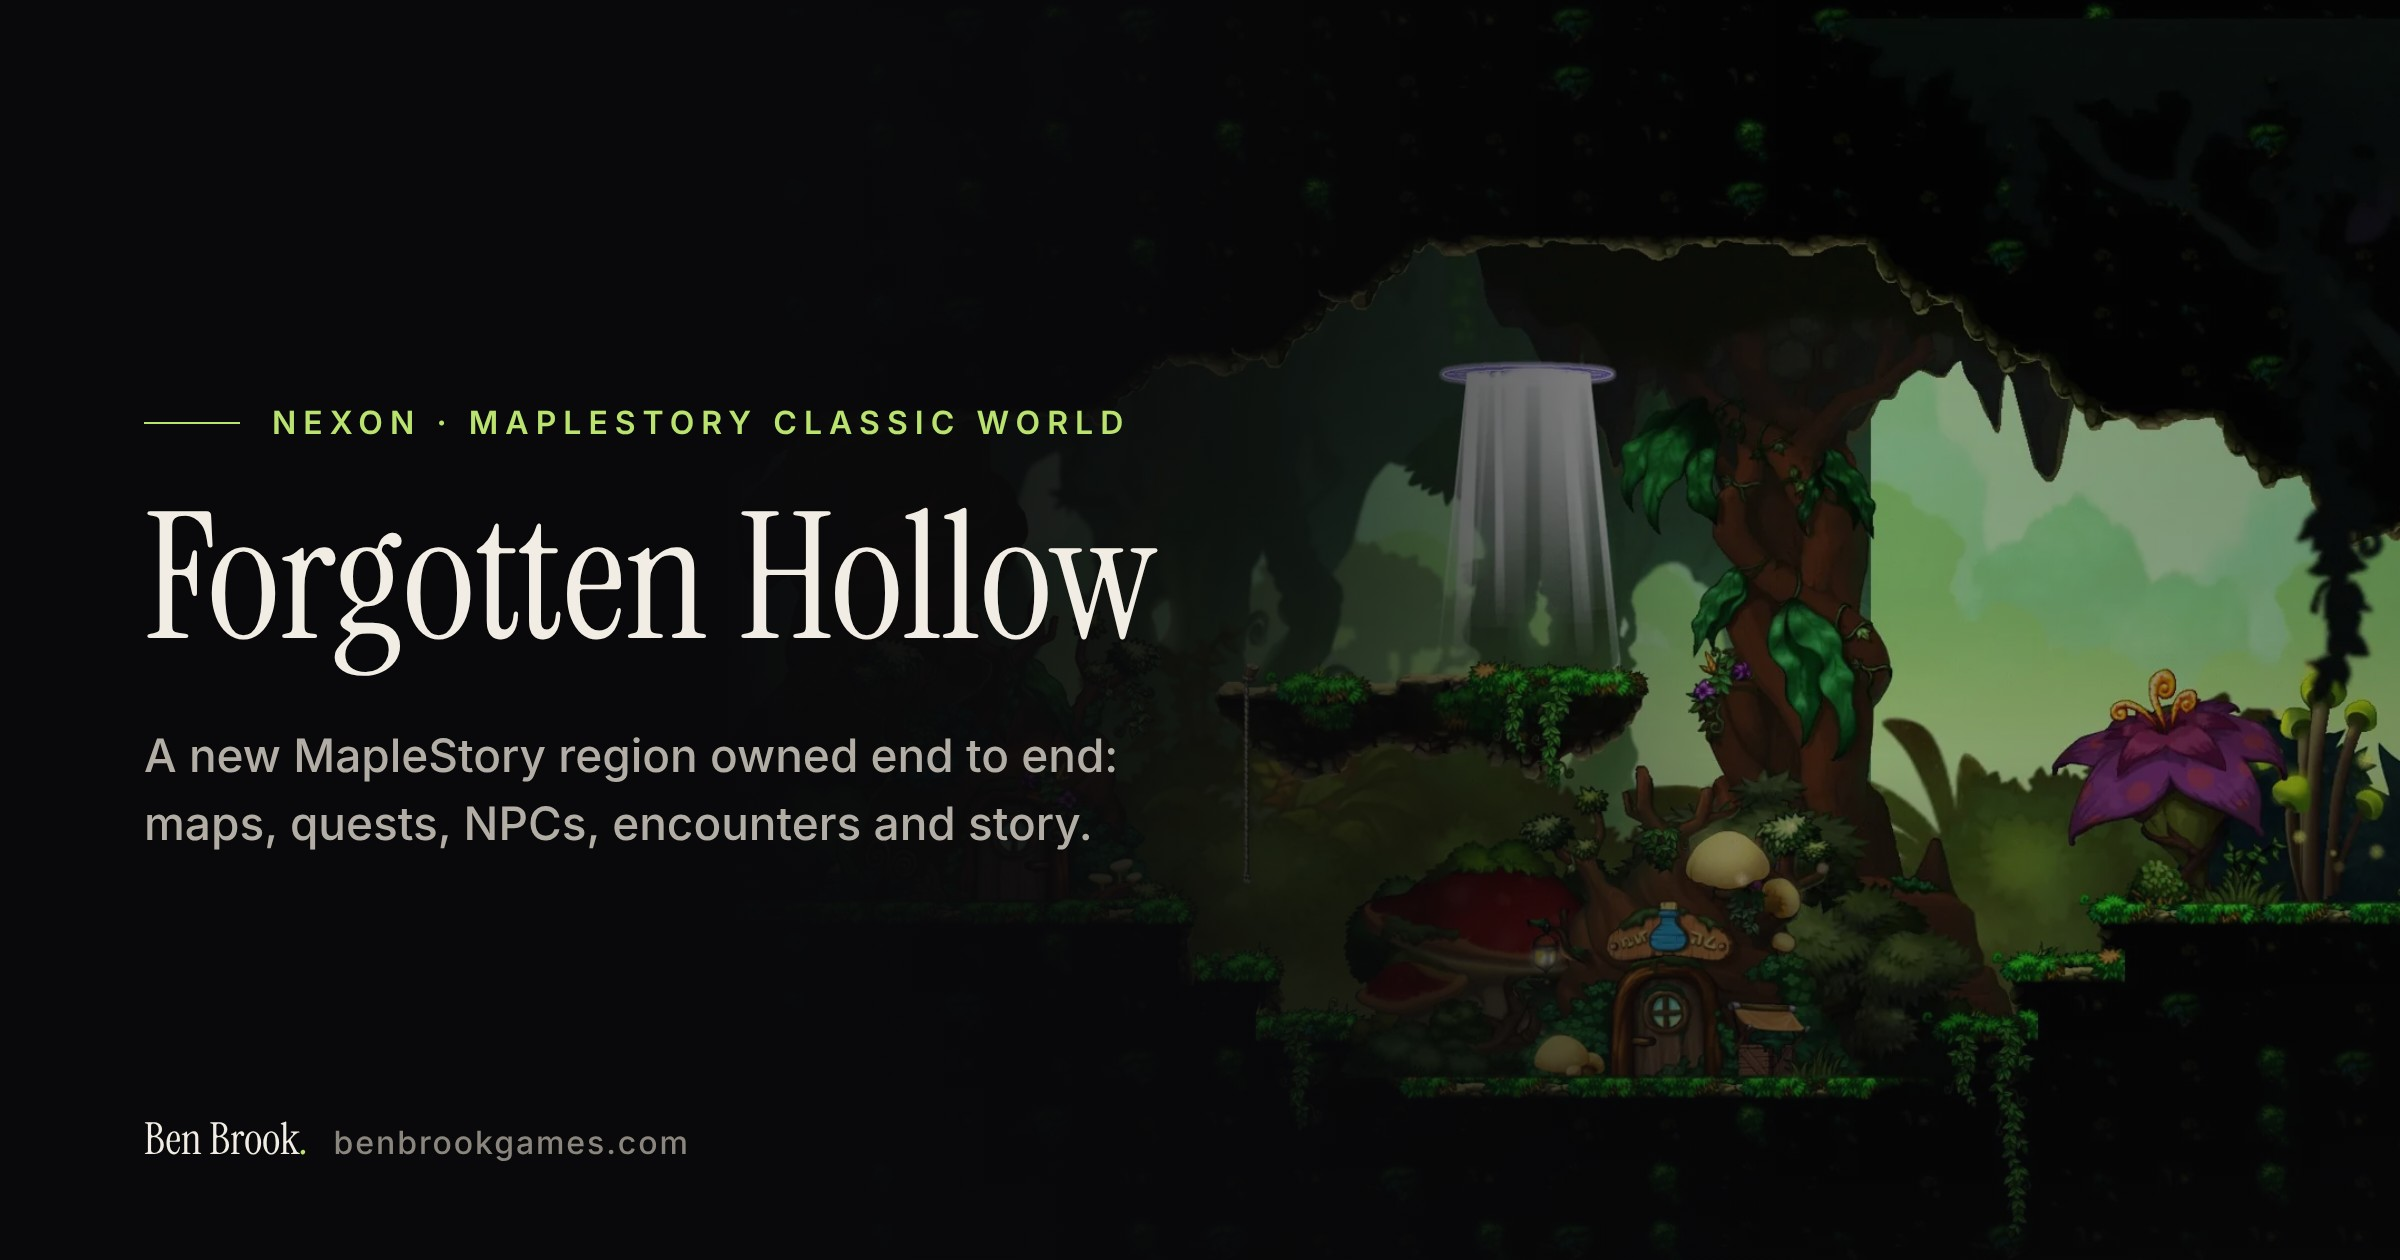
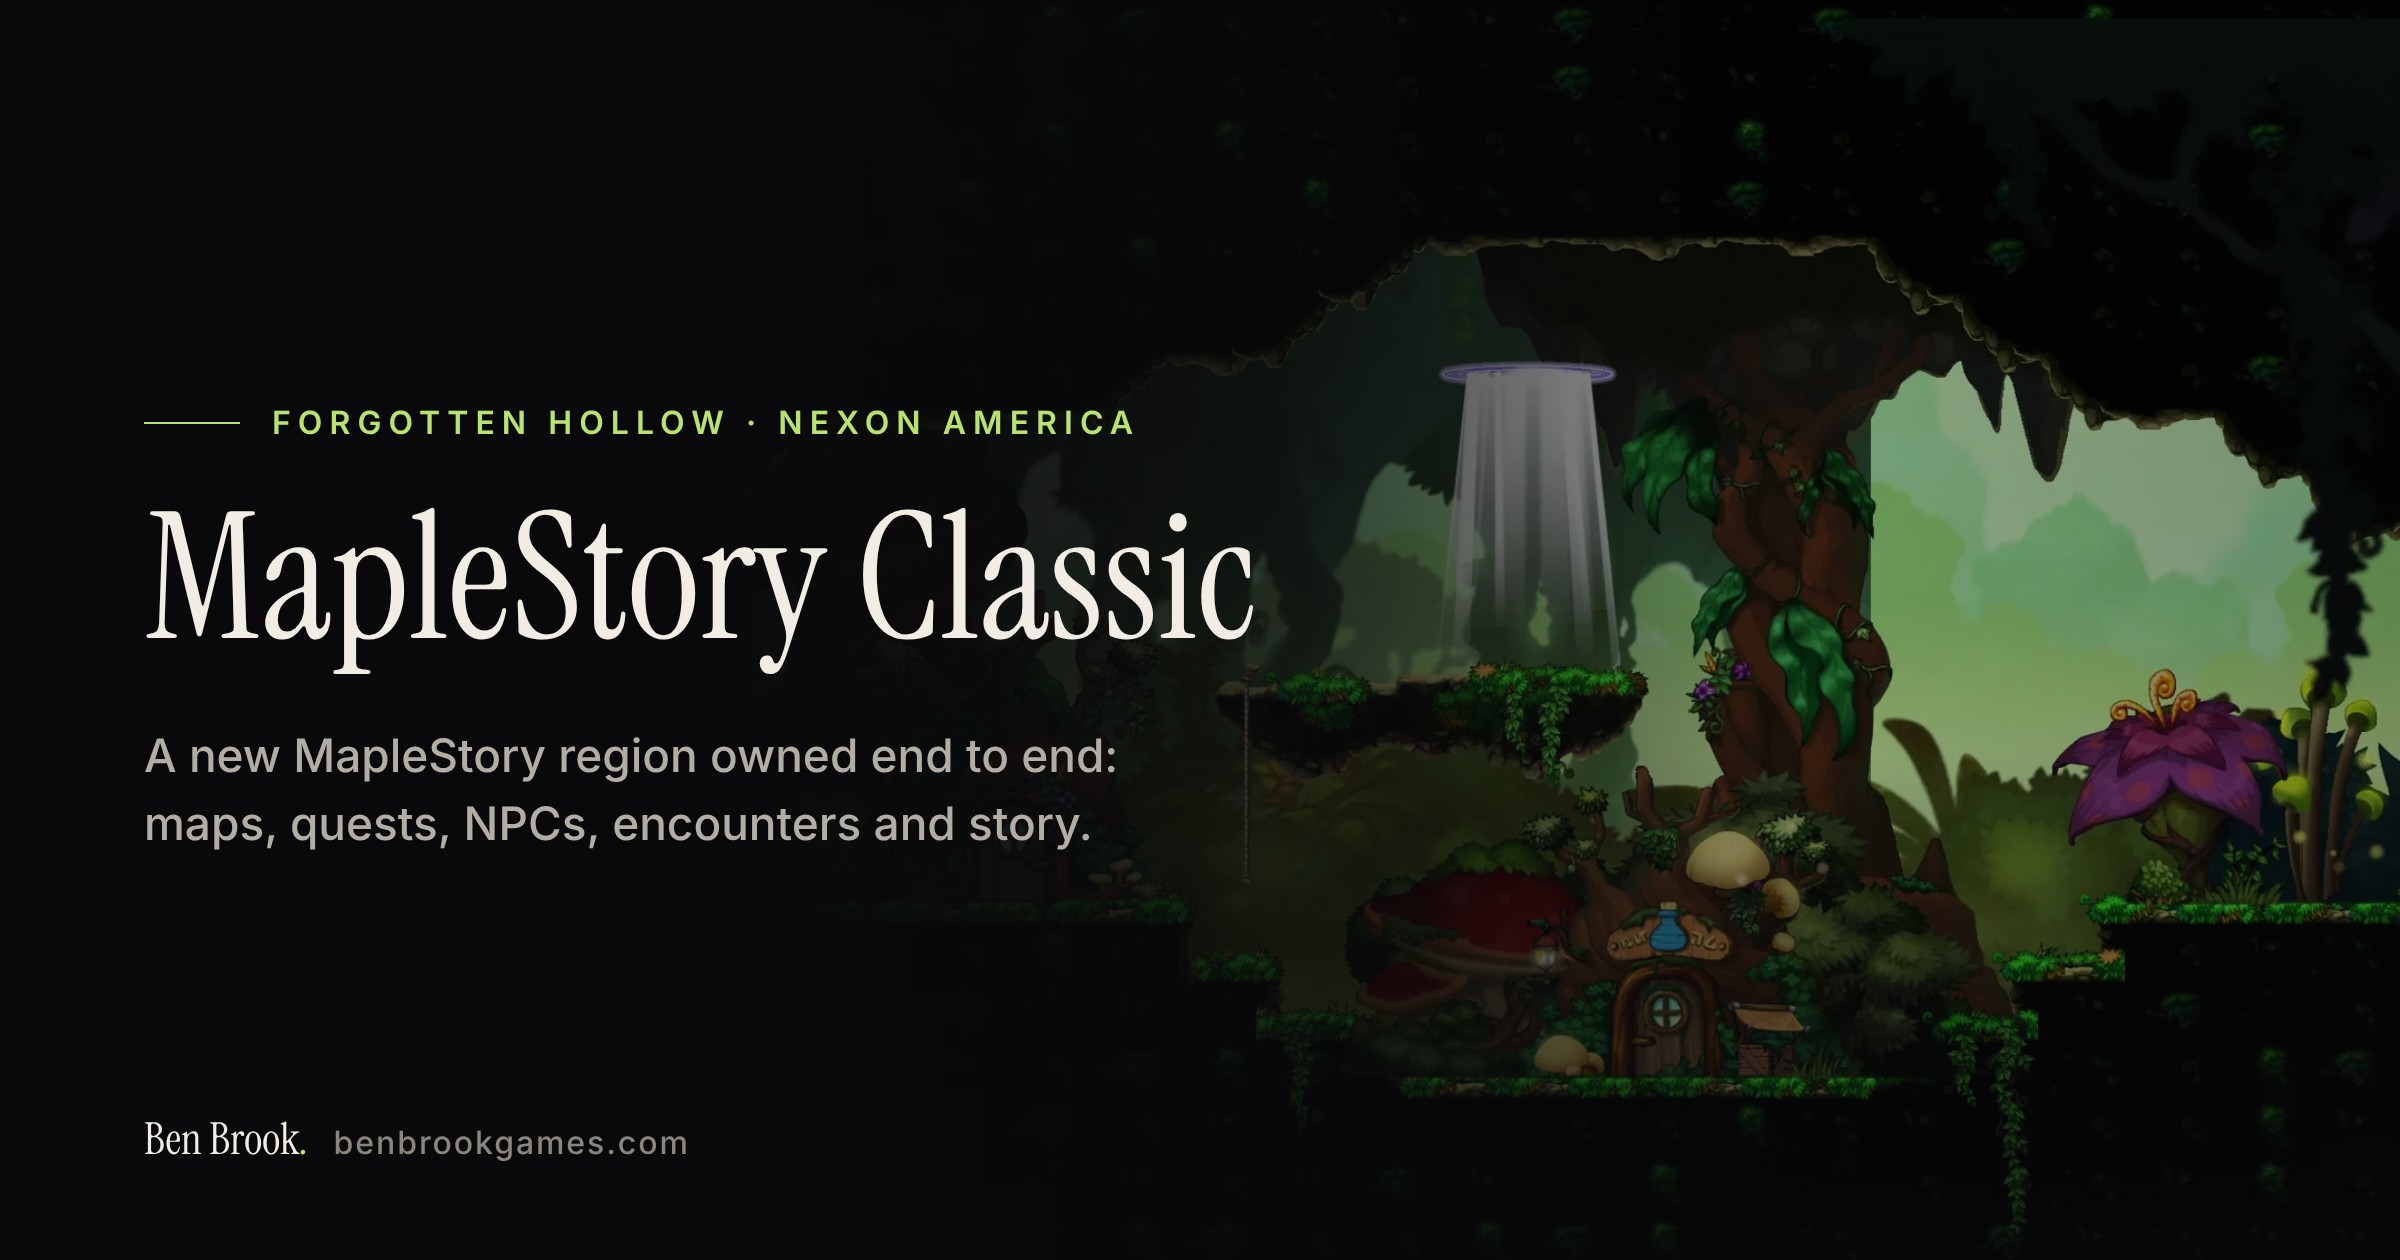
Lead with MapleStory Classic wherever Forgotten Hollow is titled

Changed region(s): [[0.0625, 0.4024, 0.5312, 0.5262], [0.125, 0.3095, 0.4688, 0.3405]]

diff --git a/app/pages/home.html b/app/pages/home.html
@@ -11,7 +11,7 @@
       <div class="home-clip"><img data-bb-src="zoelie/4.jpg" alt=""><video muted loop playsinline preload="none" data-bb-src="zoelie/hero-loop.mp4" data-bb-src-m="zoelie/hero-loop-m.mp4"></video></div>
     </div>
     <div class="bb-container bb-hero__inner">
-      <a class="home-launch" href="/projects/maplestory-classic"><i></i><span data-home-countdown>Forgotten Hollow opens November 18</span></a>
+      <a class="home-launch" href="/projects/maplestory-classic"><i></i><span data-home-countdown>MapleStory Classic: Forgotten Hollow opens November 18</span></a>
       <div class="home-hero__grid">
         <div>
           <p class="bb-kicker">Game &amp; Level Designer · Los Angeles</p>
@@ -24,7 +24,7 @@
         </div>
         <a class="home-now" href="/projects/maplestory-classic" aria-live="polite">
           <small><span data-home-idx>01</span> / 06 · Now showing</small>
-          <strong data-home-title>Forgotten Hollow</strong>
+          <strong data-home-title>MapleStory Classic: Forgotten Hollow</strong>
           <span data-home-role>Region design · Nexon · MapleStory Classic</span>
           <em>View case study →</em>
         </a>
@@ -51,7 +51,7 @@
           <span class="bb-pcard__arrow"><svg viewBox="0 0 16 16" fill="none" stroke="currentColor" stroke-width="1.6"><path d="M4 12 12 4M5 4h7v7"/></svg></span>
           <div class="bb-pcard__body">
             <div class="bb-pcard__eyebrow" data-bb-live="New · Nexon · MapleStory Classic World · Live now">New · Nexon · MapleStory Classic World · Live Nov 18</div>
-            <h3 class="bb-pcard__title">Forgotten Hollow</h3>
+            <h3 class="bb-pcard__title">MapleStory Classic: Forgotten Hollow</h3>
             <p class="bb-pcard__desc">An entire new region, owned end to end: 26 maps, 25 quests and questlines, NPCs, encounters and story.</p>
           </div>
         </a>
@@ -93,7 +93,7 @@
     </div>
     <div class="home-strip" data-home-strip tabindex="0" aria-label="Design document highlights">
       <a href="/projects/level-design-blockout-canceled-title"><img loading="lazy" data-bb-src="lonestar/map-police-gameplay.jpg" alt="Police station gameplay map"><span><small>Lonestar</small>Paper map with walkers, loot and crawl-throughs</span></a>
-      <a href="/projects/maplestory-classic"><img loading="lazy" data-bb-src="fh/maps/precipice-of-darkness.webp" alt="Precipice of Darkness map"><span><small>Forgotten Hollow</small>Precipice of Darkness, deep in the rot</span></a>
+      <a href="/projects/maplestory-classic"><img loading="lazy" data-bb-src="fh/maps/precipice-of-darkness.webp" alt="Precipice of Darkness map"><span><small>MapleStory Classic</small>Precipice of Darkness, deep in the rot</span></a>
       <a href="/projects/tbehemoth"><img loading="lazy" data-bb-src="behemoth/arch-2.jpg" alt="Behemoth castle courtyard"><span><small>Behemoth</small>The castle courtyard and its central arch</span></a>
       <a href="/projects/the-walking-dead-saints-and-sinners-chapter-2"><img loading="lazy" data-bb-src="twd/grenadier-blueprint.jpg" alt="Grenadier Blueprint graph"><span><small>TWD: Retribution</small>The Grenadier's grenade-throw Blueprint</span></a>
       <a href="/projects/game-design-pitch-deck"><img loading="lazy" data-bb-src="bsi/level-design-doc.jpg" alt="BioShock Infinite level design document"><span><small>BioShock Infinite</small>A one-room level design doc on a 1 ft grid</span></a>
@@ -223,8 +223,8 @@
       pt = Date.UTC(get('year'), get('month') - 1, get('day'));
     } catch (e) { pt = Date.UTC(pt.getFullYear(), pt.getMonth(), pt.getDate()); }
     var days = Math.round((Date.UTC(2026, 10, 18) - pt) / 864e5);
-    cd.textContent = days > 1 ? 'Forgotten Hollow opens in ' + days + ' days'
-      : days === 1 ? 'Forgotten Hollow opens tomorrow'
+    cd.textContent = days > 1 ? 'MapleStory Classic: Forgotten Hollow opens in ' + days + ' days'
+      : days === 1 ? 'MapleStory Classic: Forgotten Hollow opens tomorrow'
       : 'Forgotten Hollow is live in MapleStory Classic World';
   }
 
@@ -232,7 +232,7 @@
   var hero = root.querySelector('[data-home-reel]');
   if (hero) {
     var S = [
-      { t: 'Forgotten Hollow', r: 'Region design · Nexon · MapleStory Classic', h: '/projects/maplestory-classic', a: '#b9e26f', yt: 'Xm9Ub7Ln3IE', start: 14 },
+      { t: 'MapleStory Classic: Forgotten Hollow', r: 'Region design · Nexon America', h: '/projects/maplestory-classic', a: '#b9e26f', yt: 'Xm9Ub7Ln3IE', start: 14 },
       { t: 'BioShock 4', r: 'Level design · Cloud Chamber · 2K', h: '/projects/t-7xfc6', a: '#d8b46a' },
       { t: "Skydance's Behemoth", r: 'Level design · Skydance · VR', h: '/projects/tbehemoth', a: '#9fc3e8', yt: 'Z97OfLomM4s', start: 10 },
       { t: 'TWD: Retribution', r: 'Game & level design · Skydance · VR', h: '/projects/the-walking-dead-saints-and-sinners-chapter-2', a: '#e0654a', yt: '5wp0TW3R7uI', start: 8 },

diff --git a/app/pages/maplestory-classic.html b/app/pages/maplestory-classic.html
@@ -5,8 +5,9 @@
   <section class="bb-hero">
     <div class="bb-hero__media"><img data-bb-src="fh/maps/forgotten-hollow.webp" alt="The Forgotten Hollow fairy town, a mossy cave settlement beneath Ellinia" fetchpriority="high"></div>
     <div class="bb-container bb-hero__inner">
-      <p class="bb-kicker">Nexon America · MapleStory Classic World · 2026</p>
-      <h1 class="bb-display">Forgotten<br><em>Hollow</em></h1>
+      <p class="bb-kicker">Nexon America · New region · 2026</p>
+      <p class="fh-game">MapleStory Classic World</p>
+      <h1 class="bb-display"><span class="bb-sr">MapleStory Classic World: </span>Forgotten<br><em>Hollow</em></h1>
       <p class="bb-hero__sub">A lost fairy homeland buried beneath Ellinia. The first brand-new region built exclusively for MapleStory Classic World. I took it from initial concept to launch: every map, quest, NPC and monster placement.</p>
       <dl class="bb-hero__meta">
         <div><dt>Role</dt><dd>Game Designer · Region Owner</dd></div>
@@ -242,6 +243,7 @@
 
 <style>
 /* ---- Forgotten Hollow page components ---- */
+.fh-game { margin: 18px 0 -6px; font-family: var(--bb-serif); font-size: clamp(26px, 4.4vw, 46px); line-height: 1.05; color: var(--bb-text); opacity: .9; }
 .fh .bb-hero__media img { object-position: 50% 60%; }
 
 /* Map explorer */
